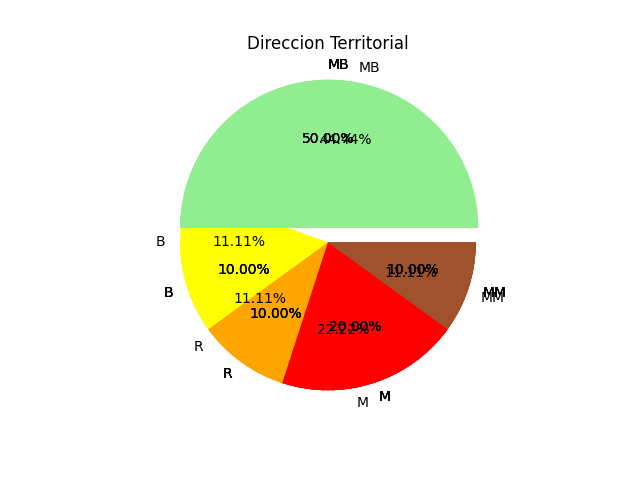
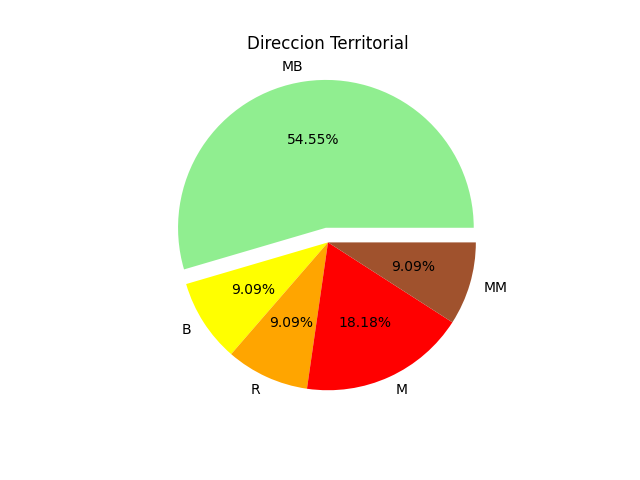
arreglado la superposicion

diff --git a/encuesta/views.py b/encuesta/views.py
@@ -81,6 +81,7 @@ def ResumenDT(request):
             "porcM": porcM,
             "porcMM": porcMM,
             "show": plt.savefig('encuesta/static/encuesta/GDT.png'),
+            "del": plt.close()
     }
 
     return render(request, 'dt.html',data)
